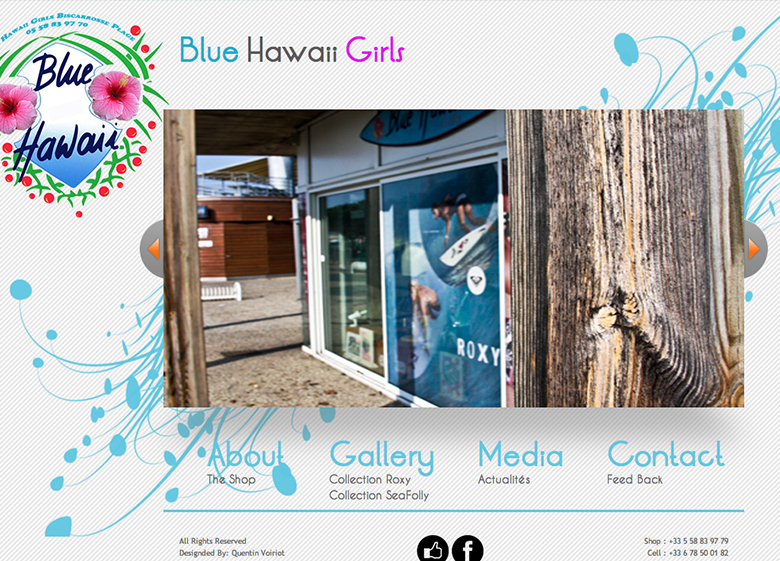
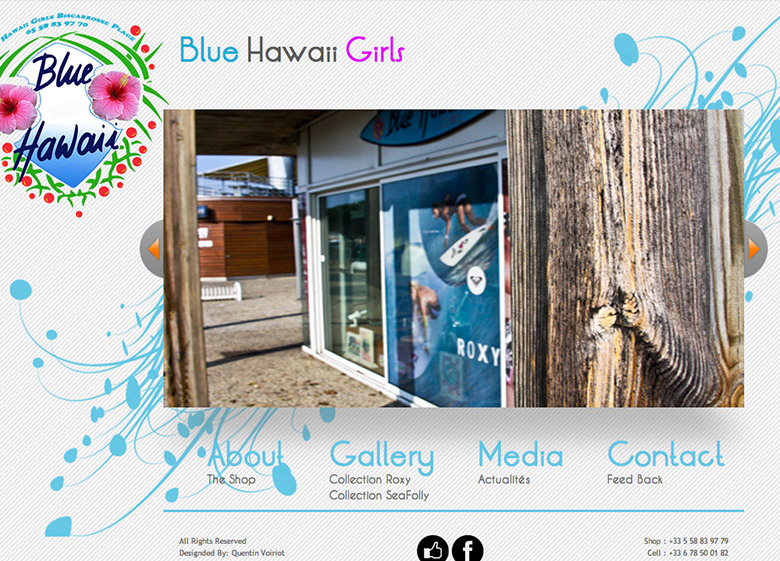
img size

diff --git a/assets/index.html b/assets/index.html
@@ -94,7 +94,7 @@
               <div class="slide1 nBg">
                 <div class="row-fluid">
                   <div class="span12" style="text-align:center">
-                    <img src="img/slide4.png" alt="image alt text">
+                    <img src="img/slide4.jpg" alt="image alt text">
                   </div>
                 </div>
               </div><!-- /slide1 -->
@@ -104,7 +104,7 @@
               <div class="slide1 nBg">
                 <div class="row-fluid">
                   <div class="span12" style="text-align:center">
-                    <img src="img/slide2.png" alt="image alt text">
+                    <img src="img/slide2.jpg" alt="image alt text">
                   </div>
                 </div>
               </div><!-- /slide1 -->
@@ -115,7 +115,7 @@
               <div class="slide1 nBg">
                 <div class="row-fluid">
                   <div class="span12" style="text-align:center">
-                    <img src="img/slide1.png" alt="image alt text">
+                    <img src="img/slide1.jpg" alt="image alt text">
                   </div>
                 </div>
               </div><!-- /slide1 -->
